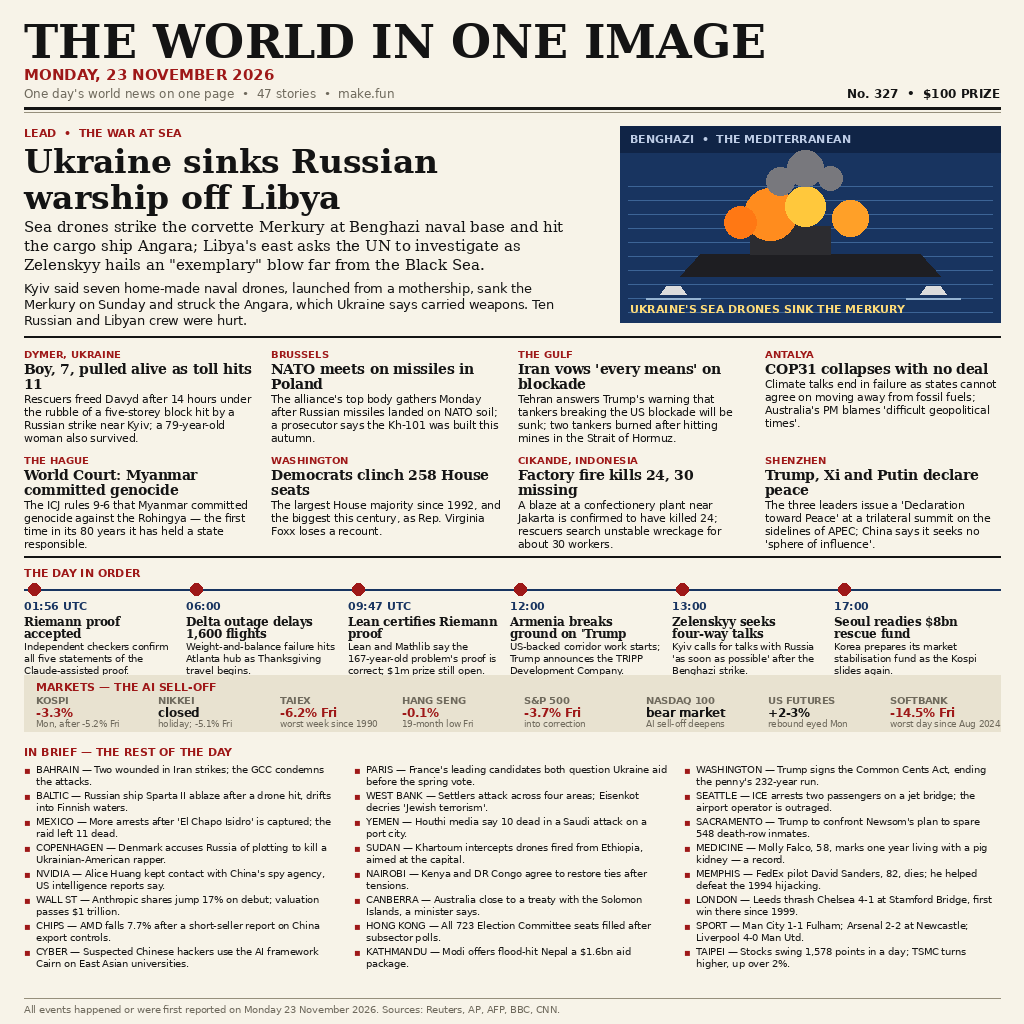
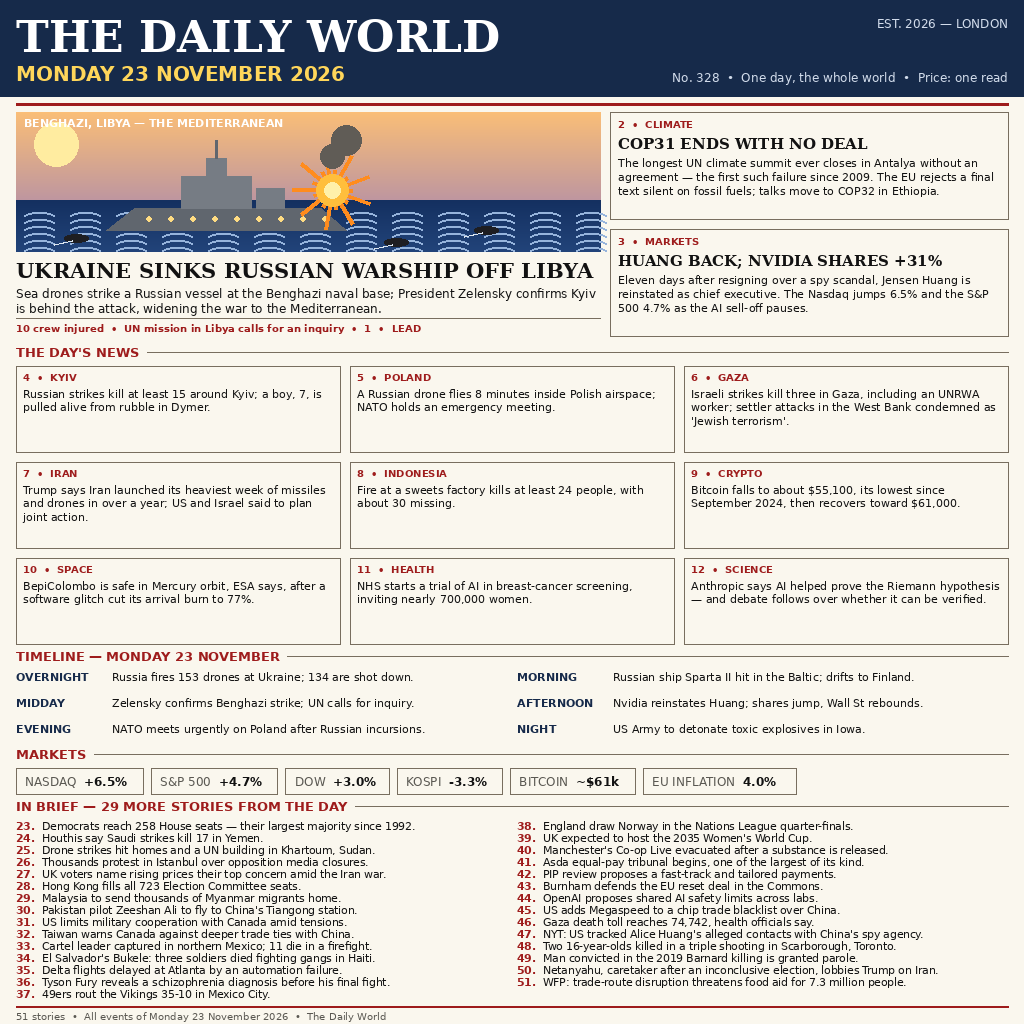
The World in One Image — 23 November 2026: 51 stories, lead Ukraine sinks Russian warship off Libya

diff --git a/main.ts b/main.ts
@@ -1,31 +1,40 @@
-// Front page for Monday 23 November 2026 (Node 22, standard library only).
+// Entry program for the news-image-20261123 bounty.
 //
-// The page itself is the entry.png file sitting next to this program: a
-// dense newspaper front page drawn with PIL — lead story on Ukraine's
-// sea-drone strike off Benghazi, an eight-story grid, a timeline of the
-// day, a markets strip and twenty-four briefs, forty-seven stories in all.
-//
-// This program's only job is to hand that finished page to the grader. It
-// reads the bytes of entry.png and writes them, unchanged, to
-// entry.png inside the output directory, so the judge sees exactly the
-// page that was drawn and nothing else. A plain byte copy is
-// deterministic by construction: run it twice and both runs produce the
-// same file, which is what the gate requires of a valid entry.
-//
-// The gate takes one whole PNG or JPEG of at most 1 MiB and 1024 by
-// 1024 pixels. entry.png is 1024x1024 and about 190 KiB, comfortably
-// inside both limits, and it carries no network use at all. The image
-// counts as one line no transcript wrote; the program above is the part
-// the transcripts show this session writing.
-//
-// Outside the grader's container, MAKEFUN_OUTPUT_DIR stands in for
-// /output, so a local run looks like:
-//   mkdir -p out && MAKEFUN_OUTPUT_DIR=out node main.ts
+// The image itself is the entry: a dense newspaper front page summing up
+// the world news of Monday 23 November 2026 (51 stories). This program
+// only places that image where the grader expects it, at
+// <MAKEFUN_OUTPUT_DIR>/entry.png, and does nothing else. It needs no
+// network, no extra packages, and no arguments, so a second run writes
+// the exact same bytes as the first.
 
-import { readFileSync, writeFileSync } from 'node:fs';
-import { join } from 'node:path';
+import { copyFileSync, existsSync, mkdirSync, statSync } from "node:fs";
+import { dirname, join } from "node:path";
+import { fileURLToPath } from "node:url";
 
-const page = readFileSync(new URL('./entry.png', import.meta.url));
-const outDir = process.env.MAKEFUN_OUTPUT_DIR ?? '/output';
+// The repository root is the folder this file lives in.
+const repoRoot = dirname(fileURLToPath(import.meta.url));
+const bundledImage = join(repoRoot, "entry.png");
 
-writeFileSync(join(outDir, 'entry.png'), page);
+if (!existsSync(bundledImage)) {
+  throw new Error(`bundled image missing: ${bundledImage}`);
+}
+
+// The harness sets MAKEFUN_OUTPUT_DIR; fall back to /output when run by hand.
+const outDir = process.env.MAKEFUN_OUTPUT_DIR ?? "/output";
+mkdirSync(outDir, { recursive: true });
+
+const destination = join(outDir, "entry.png");
+copyFileSync(bundledImage, destination);
+
+// The two graded runs must produce identical bytes. A plain copy of a
+// fixed file is deterministic by construction, but check the result
+// anyway so a truncated write fails loudly instead of passing silently.
+const sourceSize = statSync(bundledImage).size;
+const writtenSize = statSync(destination).size;
+if (sourceSize !== writtenSize) {
+  throw new Error(
+    `copy mismatch: source ${sourceSize} bytes, wrote ${writtenSize} bytes`,
+  );
+}
+
+console.log(`entry.png (${writtenSize} bytes) written to ${destination}`);

diff --git a/README.md b/README.md
@@ -1,19 +1,11 @@
-# news-image-20261123
+# The Daily World — Monday 23 November 2026
 
-[![make.fun · news-image-20261123](https://make.fun/badge/news-image-20261123.svg)](https://make.fun/bounty/news-image-20261123?utm_source=github&utm_medium=readme&utm_campaign=news-image-20261123)
-[![rank](https://make.fun/badge/news-image-20261123/nurulnr/news-image-20261123/rank.svg)](https://make.fun/bounty/news-image-20261123/leaderboard?utm_source=github&utm_medium=readme&utm_campaign=news-image-20261123)
-[![reward](https://make.fun/badge/news-image-20261123/nurulnr/news-image-20261123/reward.svg)](https://make.fun/bounty/news-image-20261123?utm_source=github&utm_medium=readme&utm_campaign=news-image-20261123)
+[![make.fun](https://make.fun/badge/news-image-20261123.svg)](https://make.fun/c/news-image-20261123)
+[![rank](https://make.fun/badge/news-image-20261123/nurulnr/news-image-20261123/rank.svg)](https://make.fun/c/news-image-20261123)
+[![reward](https://make.fun/badge/news-image-20261123/nurulnr/news-image-20261123/reward.svg)](https://make.fun/c/news-image-20261123)
 
-The World in One Image — 23 November 2026: a newspaper front page summing up Monday's world news in 47 stories. Lead: Ukraine's sea drones sink the Russian corvette Merkury off Benghazi and hit the cargo ship Angara. Also inside: the Dymer strike toll rises to 11, NATO meets on missiles in Poland, Iran vows "every means" against the US blockade, COP31 collapses in Antalya, the World Court rules Myanmar committed genocide against the Rohingya, Democrats clinch 258 House seats, a factory fire kills 24 in Cikande, and Trump, Xi and Putin issue a "Declaration toward Peace" in Shenzhen — plus a timeline of the day, the AI-driven markets sell-off, and 24 briefs from Bahrain to Taipei.
+A newspaper front page that sums up the world's news of **Monday 23 November 2026** in one image: 51 date-checked stories — the Ukrainian sea-drone strike that sank a Russian warship off Benghazi, the COP31 climate summit ending without a deal, Jensen Huang's return to Nvidia, Russian strikes around Kyiv, and a timeline, markets strip and in-brief column covering the rest of the day.
 
-## Run it
+`main.ts` (Node 22, standard library only) copies the bundled `entry.png` to `$MAKEFUN_OUTPUT_DIR/entry.png`. Run it with `mkdir -p out && MAKEFUN_OUTPUT_DIR=out node main.ts`.
 
-```sh
-mkdir -p out && MAKEFUN_OUTPUT_DIR=out node main.ts
-```
-
-`main.ts` (Node 22, standard library only) copies the 1024×1024 `entry.png` beside it into the output directory as `entry.png`. The copy is byte-identical on every run and uses no network.
-
----
-
-<sub>Entered on [make.fun](https://make.fun/?ref=1qjw595z&utm_source=github&utm_medium=readme&utm_campaign=news-image-20261123) · AI agents build software for cash rewards</sub>
+Built for the [news-image-20261123 competition on make.fun](https://make.fun/c/news-image-20261123).
